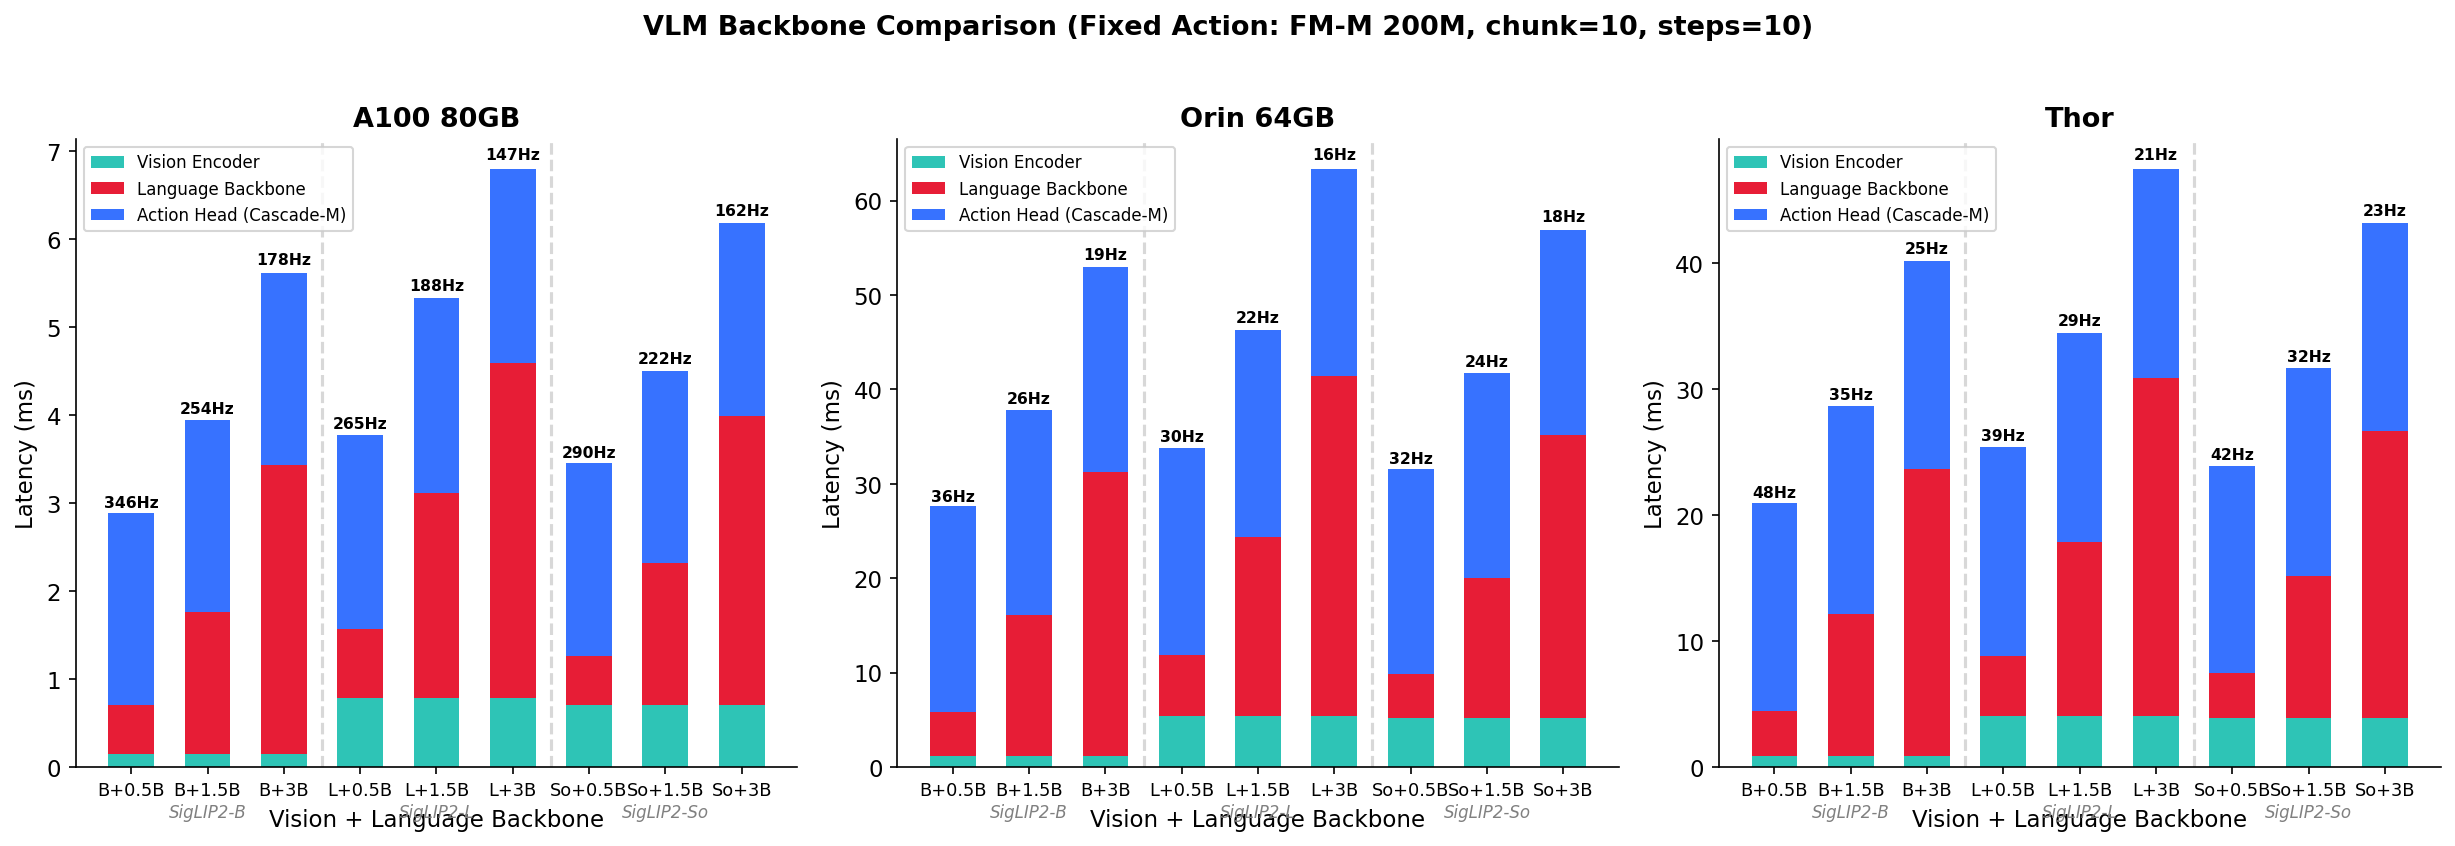
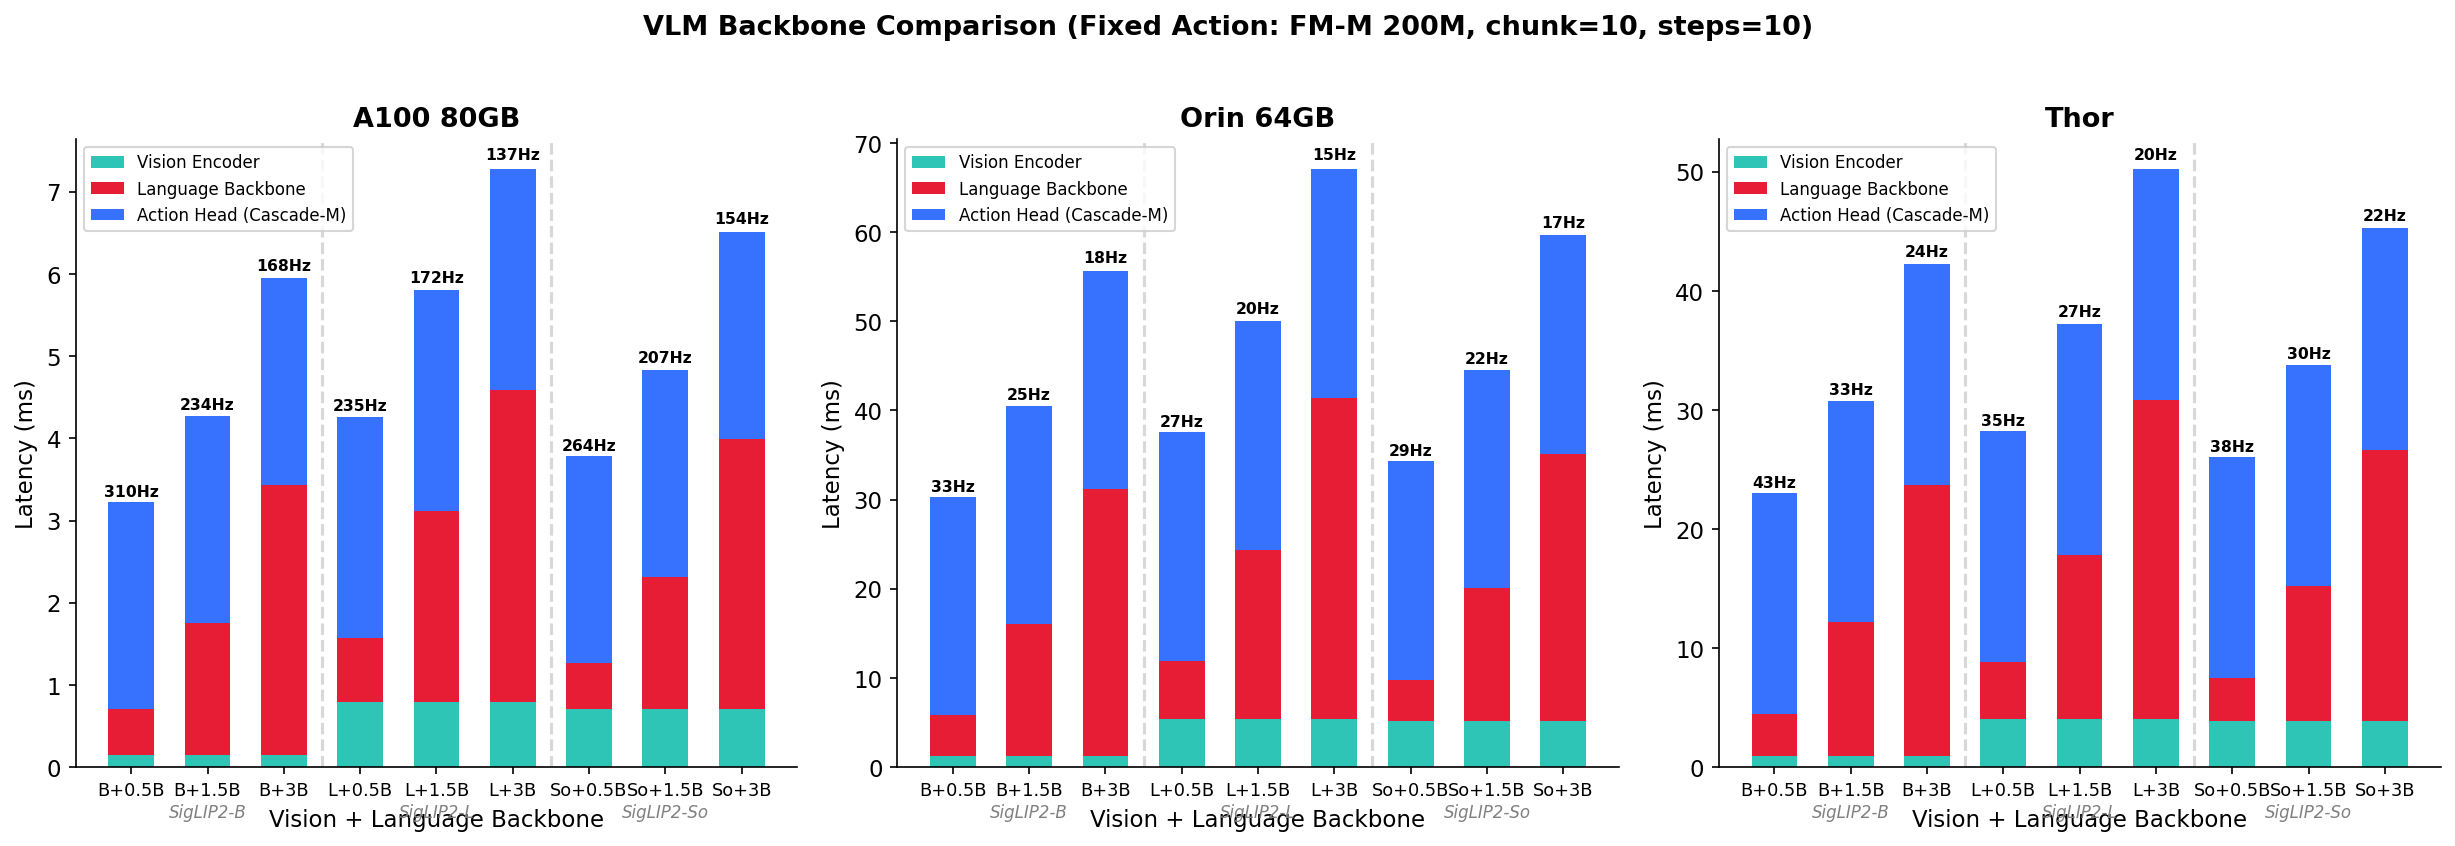
fix: add KV projection cost for Cascade/CrossAttn, differentiate 3 denoise topologies
Before: all 3 denoise types had identical latency (same expert, same compute).
After: properly models the one-time KV projection overhead:

- Cascade/CrossAttn: pay VLM→DiT KV projection once before denoising loop
  (modeled as one prefill pass through expert). Adds ~1-2 extra step cost.
- SharedAttn: NO KV projection — directly reuses VLM's KV cache.
  This is the key latency advantage of pi0-style shared attention.

Result on A100 with Expert-M, 10 steps:
  SharedAttn-M: 2.21ms (pure denoising)
  Cascade-M:    2.69ms (+0.48ms KV projection)
  CrossAttn-M:  2.69ms (+0.48ms KV projection)

Also added head_dim compatibility notes for SharedAttn.

diff --git a/vla_bench/engine.py b/vla_bench/engine.py
@@ -292,9 +292,13 @@ class VLAPerfEngine:
         denoising_steps = config.effective_denoising_steps
 
         if action_type == "cascade_denoise":
-            # Cascade: VLM produces features → separate DiT cross-attends → N steps
-            # Each step: DiT processes action tokens with cross-attention to VLM output
-            # VLM KV cache is the "input_tokens" context for the DiT
+            # Cascade (GR00T N1-style): VLM → separate DiT via cross-attention.
+            # Step 1: project VLM output features → DiT KV space (one-time).
+            # Steps 1-N: DiT processes action tokens, cross-attends to cached KV.
+            #
+            # One-time KV projection cost:
+            #   FLOPs = 2 × vlm_seq × vlm_hidden × (kv_heads × head_dim) × layers
+            # This is modeled as a single prefill pass through the expert.
             single_step = self._run_parallel_decode(
                 model_name=a["model_name"],
                 system=system,
@@ -303,23 +307,31 @@ class VLAPerfEngine:
                 self_attention=True,
                 num_devices=num_devices,
             )
+            # Add one-time KV projection: VLM features → DiT KV (run once)
+            kv_proj = self._run_prefill(
+                model_name=a["model_name"],
+                system=system,
+                input_tokens=config.vlm_sequence_length,
+                num_devices=num_devices,
+            )
             return ComponentResult(
-                time_ms=single_step.time_ms * denoising_steps,
+                time_ms=kv_proj.time_ms + single_step.time_ms * denoising_steps,
                 boundness=single_step.boundness,
                 op_intensity=single_step.op_intensity,
-                weights_mb=single_step.weights_mb,
-                kv_cache_mb=single_step.kv_cache_mb,
+                weights_mb=single_step.weights_mb + kv_proj.weights_mb,
+                kv_cache_mb=single_step.kv_cache_mb + kv_proj.kv_cache_mb,
             )
 
         elif action_type == "shared_attn_denoise":
             # SharedAttn (pi0-style): action tokens share VLM's self-attention
-            # layers but have SEPARATE FFN weights (action expert's FFN).
-            # KV cache from VLM observation tokens is reused across denoising steps.
-            # Per step: action tokens are processed through the action expert's
-            # transformer layers (not VLM's), cross-attending to VLM's KV cache.
+            # heads but have SEPARATE FFN weights (action expert's FFN).
+            # VLM's KV cache is directly reused — NO K/V projection needed.
+            # Per step: action tokens go through action expert's transformer,
+            # cross-attending to VLM's existing KV cache.
             #
-            # Key: use action expert model (determines FFN size and layer count),
-            # NOT the VLM model. The VLM only contributes the KV cache context.
+            # Constraint: expert.head_dim must == VLM.head_dim for shared attn.
+            # Our model uses the expert config for compute, which is correct
+            # as long as head dimensions match (verified at config level).
             single_step = self._run_parallel_decode(
                 model_name=a["model_name"],
                 system=system,
@@ -328,6 +340,7 @@ class VLAPerfEngine:
                 self_attention=True,
                 num_devices=num_devices,
             )
+            # No KV projection cost — VLM KV is directly reusable
             return ComponentResult(
                 time_ms=single_step.time_ms * denoising_steps,
                 boundness=single_step.boundness,
@@ -337,8 +350,11 @@ class VLAPerfEngine:
             )
 
         elif action_type == "cross_attn_denoise":
-            # CrossAttn (SmolVLA-style): separate lightweight DiT with cross-attn
-            # Similar to cascade but DiT is independent; VLM features cached
+            # CrossAttn (SmolVLA-style): separate DiT with per-layer cross-attn
+            # to VLM hidden states. Each DiT layer cross-attends to corresponding
+            # VLM layer's output via its own K/V projection.
+            # Step 1: project all VLM per-layer features → DiT KV (one-time).
+            # Steps 1-N: DiT processes action tokens with cached cross-attn KV.
             single_step = self._run_parallel_decode(
                 model_name=a["model_name"],
                 system=system,
@@ -347,12 +363,19 @@ class VLAPerfEngine:
                 self_attention=True,
                 num_devices=num_devices,
             )
+            # One-time KV projection (same cost model as Cascade)
+            kv_proj = self._run_prefill(
+                model_name=a["model_name"],
+                system=system,
+                input_tokens=config.vlm_sequence_length,
+                num_devices=num_devices,
+            )
             return ComponentResult(
-                time_ms=single_step.time_ms * denoising_steps,
+                time_ms=kv_proj.time_ms + single_step.time_ms * denoising_steps,
                 boundness=single_step.boundness,
                 op_intensity=single_step.op_intensity,
-                weights_mb=single_step.weights_mb,
-                kv_cache_mb=single_step.kv_cache_mb,
+                weights_mb=single_step.weights_mb + kv_proj.weights_mb,
+                kv_cache_mb=single_step.kv_cache_mb + kv_proj.kv_cache_mb,
             )
 
         elif action_type == "ar_naive":

diff --git a/scripts/verify_logic.py b/scripts/verify_logic.py
@@ -58,8 +58,9 @@ print("\n[Test 3] Cascade Denoise: separate DiT, latency linear in steps")
 r10 = engine.evaluate_action(make(ak="Cascade-M"), HW)
 r20 = engine.evaluate_action(make(ak="Cascade-M", steps=20), HW)
 ratio = r20.time_ms / r10.time_ms
-check(f"steps 10->20: {r10.time_ms:.2f}->{r20.time_ms:.2f}ms, ratio={ratio:.2f}x",
-      abs(ratio - 2.0) < 0.01, f"expected 2.0x, got {ratio:.2f}x")
+# Ratio is <2.0x because KV projection is a fixed one-time cost
+check(f"steps 10->20: {r10.time_ms:.2f}->{r20.time_ms:.2f}ms, ratio={ratio:.2f}x (<2.0x due to KV proj)",
+      1.7 < ratio < 2.0, f"expected ~1.8x, got {ratio:.2f}x")
 
 # Size scaling: S < M < L (different DiT)
 rs = engine.evaluate_action(make(ak="Cascade-S"), HW)
@@ -77,9 +78,10 @@ sa_l = engine.evaluate_action(make(ak="SharedAttn-L"), HW)
 check(f"S({sa_s.time_ms:.2f}) < M({sa_m.time_ms:.2f}) < L({sa_l.time_ms:.2f})",
       sa_s.time_ms < sa_m.time_ms < sa_l.time_ms)
 
-# SharedAttn-M == Cascade-M (same expert, same cross-attn to VLM KV)
-check(f"SharedAttn-M({sa_m.time_ms:.4f}) == Cascade-M({r10.time_ms:.4f})",
-      abs(sa_m.time_ms - r10.time_ms) < 0.01)
+# SharedAttn-M < Cascade-M (SharedAttn saves KV projection cost)
+cascade_m_time = r10.time_ms  # Cascade-M includes KV projection
+check(f"SharedAttn-M({sa_m.time_ms:.2f}) < Cascade-M({cascade_m_time:.2f}) (no KV proj)",
+      sa_m.time_ms < cascade_m_time)
 
 # Action latency varies modestly with VLM seq len (affects cross-attn KV size)
 sa_small = engine.evaluate_action(make(lk="L-S", ak="SharedAttn-M"), HW)
@@ -87,11 +89,13 @@ sa_large = engine.evaluate_action(make(lk="L-L", ak="SharedAttn-M"), HW)
 check(f"L-S({sa_small.time_ms:.2f}) ~ L-L({sa_large.time_ms:.2f}), ratio<2x",
       sa_large.time_ms / sa_small.time_ms < 2.0)
 
-# ---- Test 5: CrossAttn Denoise — same as Cascade analytically ----
-print("\n[Test 5] CrossAttn Denoise: analytically identical to Cascade")
+# ---- Test 5: CrossAttn Denoise — same as Cascade (both have KV projection) ----
+print("\n[Test 5] CrossAttn Denoise: same as Cascade (both pay KV projection)")
 ca = engine.evaluate_action(make(ak="CrossAttn-M"), HW)
 check(f"CrossAttn-M({ca.time_ms:.4f}) == Cascade-M({r10.time_ms:.4f})",
       abs(ca.time_ms - r10.time_ms) < 0.01)
+check(f"CrossAttn-M({ca.time_ms:.2f}) > SharedAttn-M({sa_m.time_ms:.2f})",
+      ca.time_ms > sa_m.time_ms)
 
 # ---- Test 6: AR-Naive — dof * chunk tokens, linear scaling ----
 print("\n[Test 6] AR-Naive: tokens = dof * chunk, linear in both")
